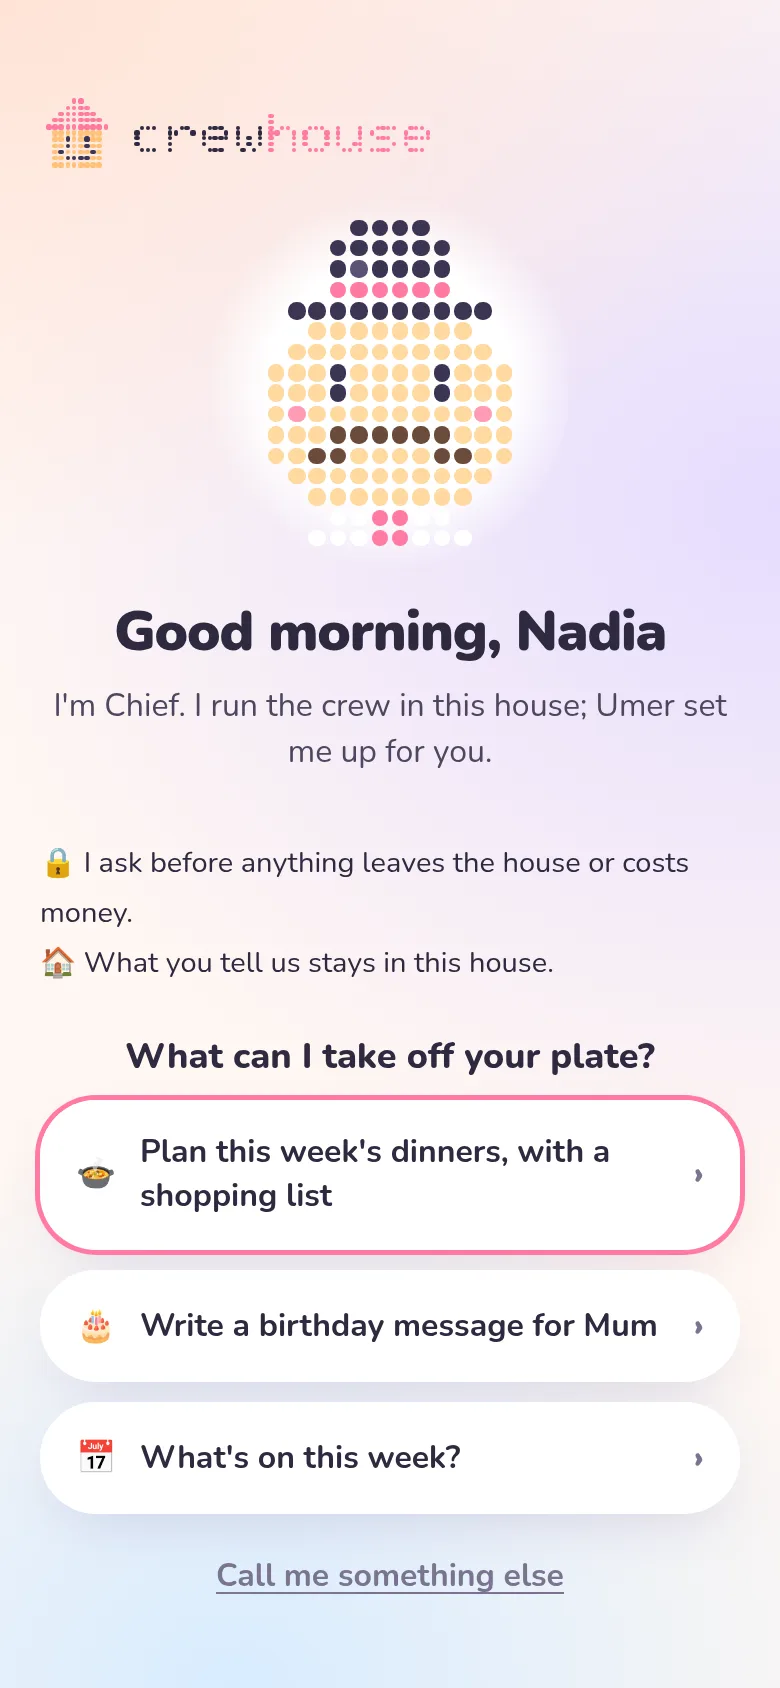
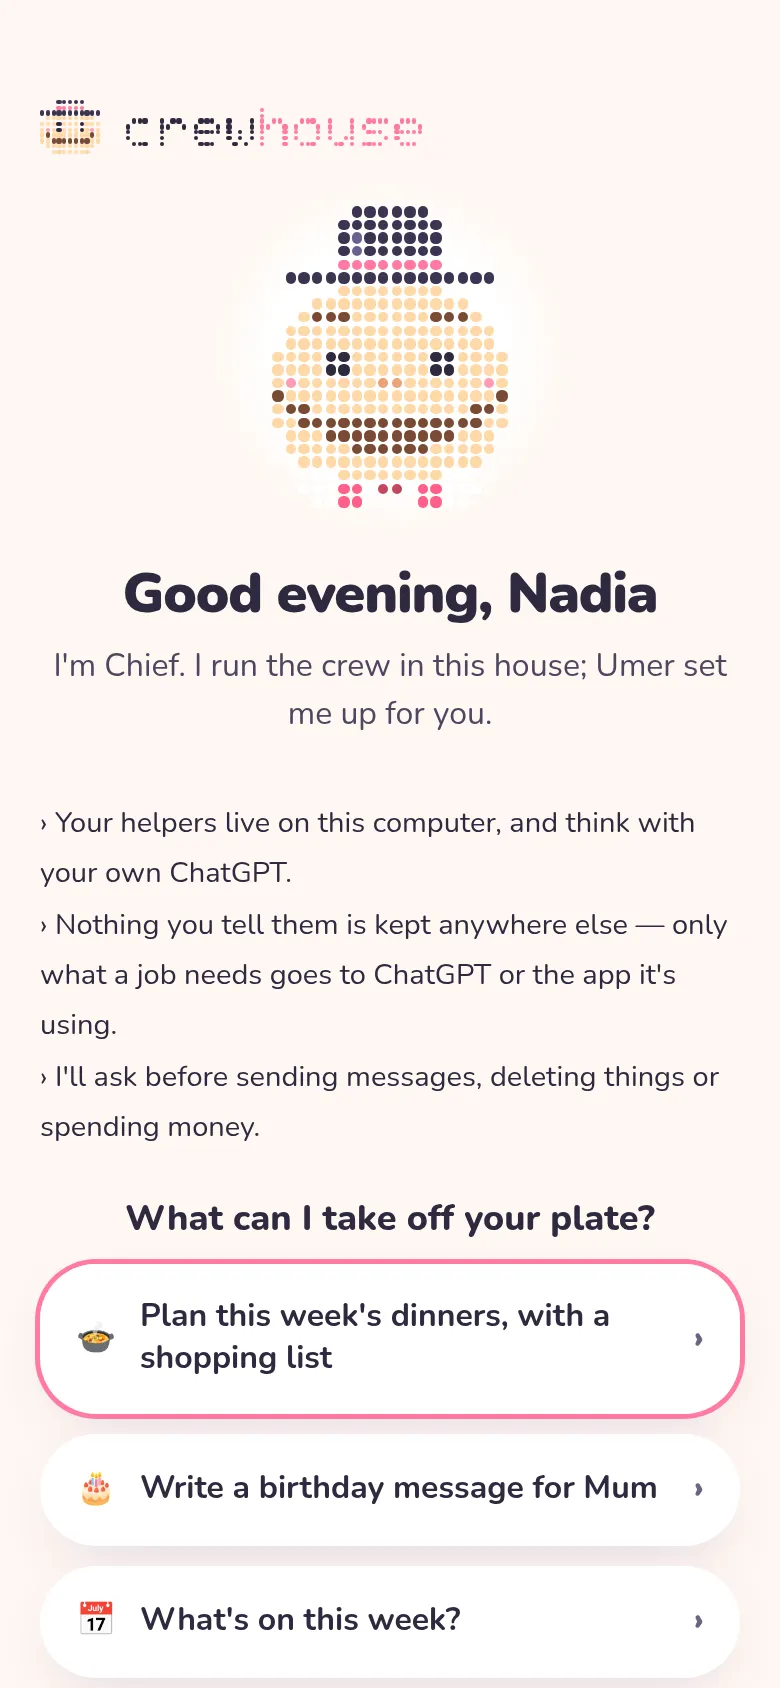
Say it runs at home, where a family meets it: one checked sentence in Hello, Settings and This phone
The same two sentences come from web/src/adapter.ts atHome() so the three
screens can't drift: helpers live on this computer and use the person's own
sign-ins, and what they're told is kept nowhere else — with the honest carve
out that what a job needs still goes to ChatGPT or the app it's using.
The phone says "the home computer", and its first run no longer calls the
family's computer "this computer". test/ui.test.ts pins the words and where
they're quoted; README's Hello screenshots are recaptured with them.

diff --git a/test/ui.test.ts b/test/ui.test.ts
@@ -146,6 +146,23 @@ test('first success: starters never dead-end, and the house setup is the owner\'
   assert.deepEqual(half.rows.filter((r) => !r.done).map((r) => r.key), ['google']);
 });
 
+test('the runs-at-home line is said once, in the same plain words, in all three places a family meets it', () => {
+  const [here, only] = A.atHome();
+  assert.equal(here, 'Your helpers live on this computer and use your own sign-ins.', 'no technical words, no vendor voice');
+  // honest about what does leave: what a job needs, to ChatGPT or the app it's using (README, "Nothing leaves your machine…")
+  assert.equal(only, "Nothing you tell them is kept anywhere else — only what a job needs goes to ChatGPT or the app it's using.");
+  assert.doesNotMatch(`${here} ${only}`, FORBIDDEN);
+  assert.match(A.atHome('the home computer')[0], /^Your helpers live on the home computer and use your own sign-ins\.$/, 'the phone names the home computer');
+  const web = readFileSync(join(import.meta.dirname, '..', 'web', 'src', 'main.tsx'), 'utf8');
+  assert.equal([...web.matchAll(/A\.atHome\(/g)].length, 2, 'Hello and Settings both quote it; nobody paraphrases it');
+  assert.match(web, /<div>› \{A\.atHome\(\)\[1\]\}<\/div>/, "it sits in Hello's promises, the same three rows as before");
+  assert.match(web, /<h1>Settings<\/h1>\s+<p className="mute small">\{A\.atHome\(\)\.join\(' '\)\}<\/p>/, 'Settings says it under the title, in the quiet style');
+  const app = readFileSync(join(import.meta.dirname, '..', 'mobile', 'App.tsx'), 'utf8');
+  assert.equal([...app.matchAll(/A\.atHome\('the home computer'\)/g)].length, 3, 'the phone quotes it at first run (two lines) and on This phone');
+  assert.match(app, /\{A\.atHome\('the home computer'\)\.join\(' '\)\}<\/T>\s+<T tone="mute" style=\{s\.small\}>🔒/, 'on This phone it sits above the lock line');
+  assert.doesNotMatch(app, /I run the crew on this computer/, 'the phone never calls the family computer "this computer"');
+});
+
 test('owner-only helpers stay with the owner', () => {
   assert.ok(!A.crew(state).some((h) => h.id === 'tracer'));
   assert.ok(!A.gallery(state).some((t: any) => t.id === 'tracer'));

diff --git a/mobile/App.tsx b/mobile/App.tsx
@@ -509,7 +509,9 @@ function Hello({ state, refresh, go }: Ctx) {
     <Page>
       <View style={{ alignItems: 'center' }}><ChiefArt mood="hello" size={150} /></View>
       <T style={[s.h1, s.centerText]}>{A.greeting()}{address.trim() ? `, ${address.trim()}` : ''}</T>
-      <T tone="ink2" style={s.centerText}>I'm Chief. I run the crew on this computer, using your ChatGPT to help with the work. I'll ask before sending messages, deleting things or spending money.</T>
+      <T tone="ink2" style={s.centerText}>I'm Chief. {A.atHome('the home computer')[0]}</T>
+      <T tone="mute" style={s.centerText}>{A.atHome('the home computer')[1]}</T>
+      <T tone="ink2" style={s.centerText}>I'll ask before sending messages, deleting things or spending money.</T>
       <TextInput style={[s.input, { color: useLook().ink, borderColor: useLook().line }]} value={address} onChangeText={setAddress} placeholder="What shall I call you?" placeholderTextColor={useLook().mute} />
       <View style={s.chips}>{['Sir', "Ma'am", ...(named ? [named] : [])].map((q) => <Btn key={q} label={q} onPress={() => setAddress(q)} />)}</View>
       <Label>What can I take off your plate?</Label>
@@ -1141,6 +1143,7 @@ function ThisPhone({ grant, status, onForget, onClear }: { grant: Grant; status:
         <T tone="mute">This phone keeps the last week of your chats, so you can read them while the home computer is off. Clearing removes them from this phone only; unpairing clears them too.</T>
         <View style={s.row}><Btn label="Clear" onPress={onClear} /></View>
       </Card>
+      <T tone="mute" style={s.small}>{A.atHome('the home computer').join(' ')}</T>
       <T tone="mute" style={s.small}>🔒 Only the computer this phone was paired with can read what it sends.</T>
       <Btn label="Unpair this phone" onPress={onForget} />
       <T tone="mute" style={s.small}>To take a phone's access away for good, remove it on the computer too: Settings, Phones.</T>

diff --git a/web/src/adapter.ts b/web/src/adapter.ts
@@ -39,6 +39,18 @@ export const clock = (t: number) => {
 const at = (t: number | string) => (typeof t === 'number' ? (t < 1e12 ? t * 1000 : t) : Date.parse(t));
 export const greeting = (h = new Date().getHours()) => (h < 5 ? 'Good evening' : h < 12 ? 'Good morning' : h < 18 ? 'Good afternoon' : 'Good evening');
 
+/**
+ * The runs-at-home promise, said once and read in three places: Hello, Settings, and the phone's This phone.
+ * Each part is true of the code as it ships — the database, the crew's notes and everyone's sign-ins live on this
+ * machine and crewd has no server of its own (README); a job's own words are the only thing sent to ChatGPT or a
+ * connected app (src/engine.ts, src/connections.ts); a phone notification carries no words at all (src/link.ts).
+ * `home` names the machine from wherever the line is read. Keep it free of technical words; test/ui.test.ts pins it.
+ */
+export const atHome = (home = 'this computer') => [
+  `Your helpers live on ${home} and use your own sign-ins.`,
+  "Nothing you tell them is kept anywhere else — only what a job needs goes to ChatGPT or the app it's using.",
+];
+
 /** A file's name as a person would say it: "files/mum-birthday_v2.mp4" → "Mum birthday v2". */
 export function pretty(path: string) {
   const b = (path.split('/').pop() ?? path).replace(/\.[a-z0-9]+$/i, '').replace(/[-_.]+/g, ' ').trim();

diff --git a/web/src/main.tsx b/web/src/main.tsx
@@ -82,7 +82,8 @@ function Hello({ state, refresh, night }: Ctx) {
       <h1>{A.greeting()}{address.trim() ? `, ${address.trim()}` : ''}</h1>
       <p className="lead">I'm Chief. I run the crew in this house{isOwner ? '.' : `; ${owner} set me up for you.`}</p>
       <div className="promises">
-        <div>› Your crew runs on this computer, using your ChatGPT to help with the work.</div>
+        <div>› Your helpers live on this computer, and think with your own ChatGPT.</div>
+        <div>› {A.atHome()[1]}</div>
         <div>› I'll ask before sending messages, deleting things or spending money.</div>
       </div>
       <h2 className="plate">What can I take off your plate?</h2>
@@ -801,6 +802,7 @@ function Settings({ state, me, refresh, tick, accounts, look, setLook, switchTo 
   return (
     <div className="page settings">
       <h1>Settings</h1>
+      <p className="mute small">{A.atHome().join(' ')}</p>
       {owner && <HomeSetup state={state} accounts={accounts} tick={tick} />}
       {state.members.length > 1 && (<><div className="label">Who's using this screen</div>
         <div className="chips">{state.members.map((m: Json) => <button key={m.id} className={`chip ${m.id === me ? 'on' : ''}`} onClick={() => switchTo(m.id)}>{m.name}</button>)}</div></>)}
